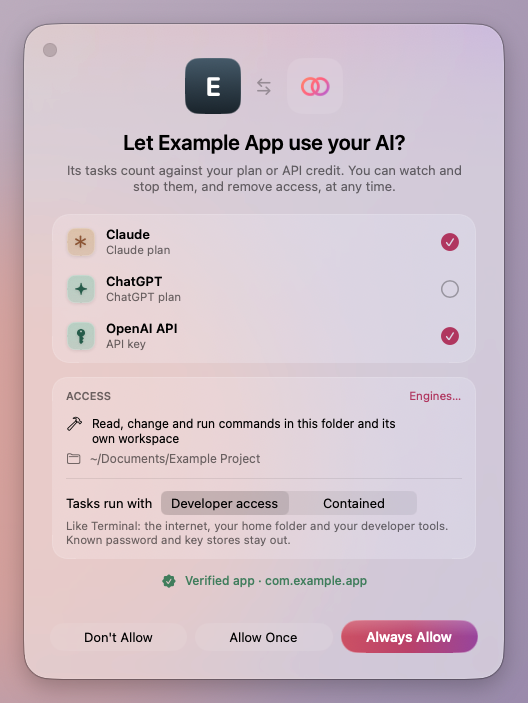
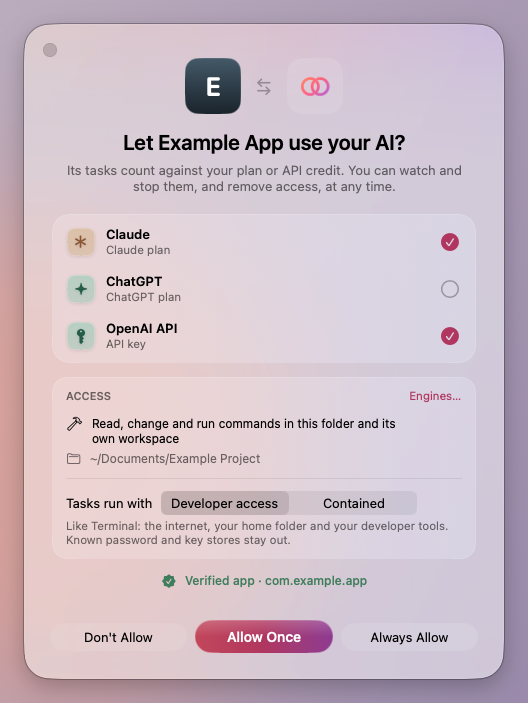
Highlight the approval button that Return chooses
Return chose Allow Once while Always Allow wore the highlight, even for an app Agneta can't verify, so the eye went to the riskiest choice. As macOS has it, the highlighted button is now the default one: Allow Once for a verified app, none for an unverified one. The approval screenshots are retaken.

Changed region(s): [[0.3636, 0.8663, 0.9091, 0.926]]

diff --git a/Sources/Agneta/Windows.swift b/Sources/Agneta/Windows.swift
@@ -404,14 +404,16 @@ struct ApprovalView: View {
                     Button { model.approvals.answer(remember: nil, for: approval.id) } label: { Text("Don't Allow").frame(maxWidth: .infinity) }
                         .glassButton().keyboardShortcut(.cancelAction)
                     // Once: for this connection only, nothing kept. Return chooses it, and only for a verified app.
+                    // The highlighted button is the one Return chooses, as macOS has it: Allow Once for a verified app,
+                    // none for one Agneta can't verify, so nothing draws the eye to letting it in.
                     // A provider that can't run yet (Codex not installed) may still be allowed: it runs once it can.
                     let nothing = approval.allowed.isEmpty
                     Button { model.approvals.answer(remember: false, for: approval.id) } label: { Text("Allow Once").frame(maxWidth: .infinity) }
-                        .glassButton()
+                        .glassButton(prominent: approval.verified).tint(approval.verified ? Palette.fill : nil)
                         .defaultAction(when: approval.verified)
                         .disabled(nothing)
                     Button { model.approvals.answer(remember: true, for: approval.id) } label: { Text("Always Allow").frame(maxWidth: .infinity) }
-                        .glassButton(prominent: true).tint(Palette.fill)
+                        .glassButton()
                         .disabled(nothing)
                 }
                 .controlSize(.large)

diff --git a/CHANGELOG.md b/CHANGELOG.md
@@ -14,6 +14,7 @@ Notable changes to Agneta, newest first. Versions follow [semantic versioning](h
 - **Reset stops downloads.** An engine download under way when you reset could finish afterwards and put its files back; it's now stopped before anything is deleted.
 - **Clearing history keeps trying.** A conversation in an account's shared Goose that couldn't be deleted at once (Goose not there, failing, or Agneta quitting) was lost track of. Agneta now keeps a list of them until Goose deletes each, asks again at launch and after each clear, and says when it couldn't, with **Try Again**.
 - **A changed model takes effect on the next task.** An account's shared Goose kept the model it started with, so clearing a custom model (or changing the model, key or defaults) didn't apply until Agneta restarted. Now its shared engines restart for the next task; one busy with a task finishes it first.
+- **The approval window highlights what Return does:** Allow Once for a verified app, and no button for an app Agneta can't verify, so nothing draws the eye to letting it in. Always Allow is one click, as before.
 - **A tidier approval window:** one Access card with the app's tools, folders and mode, **Engines…** in its header, and an unverified app's code on one row. It shows only what the app asked for, with a **Connect** row for a provider you haven't connected yet.
 
 **Security**
